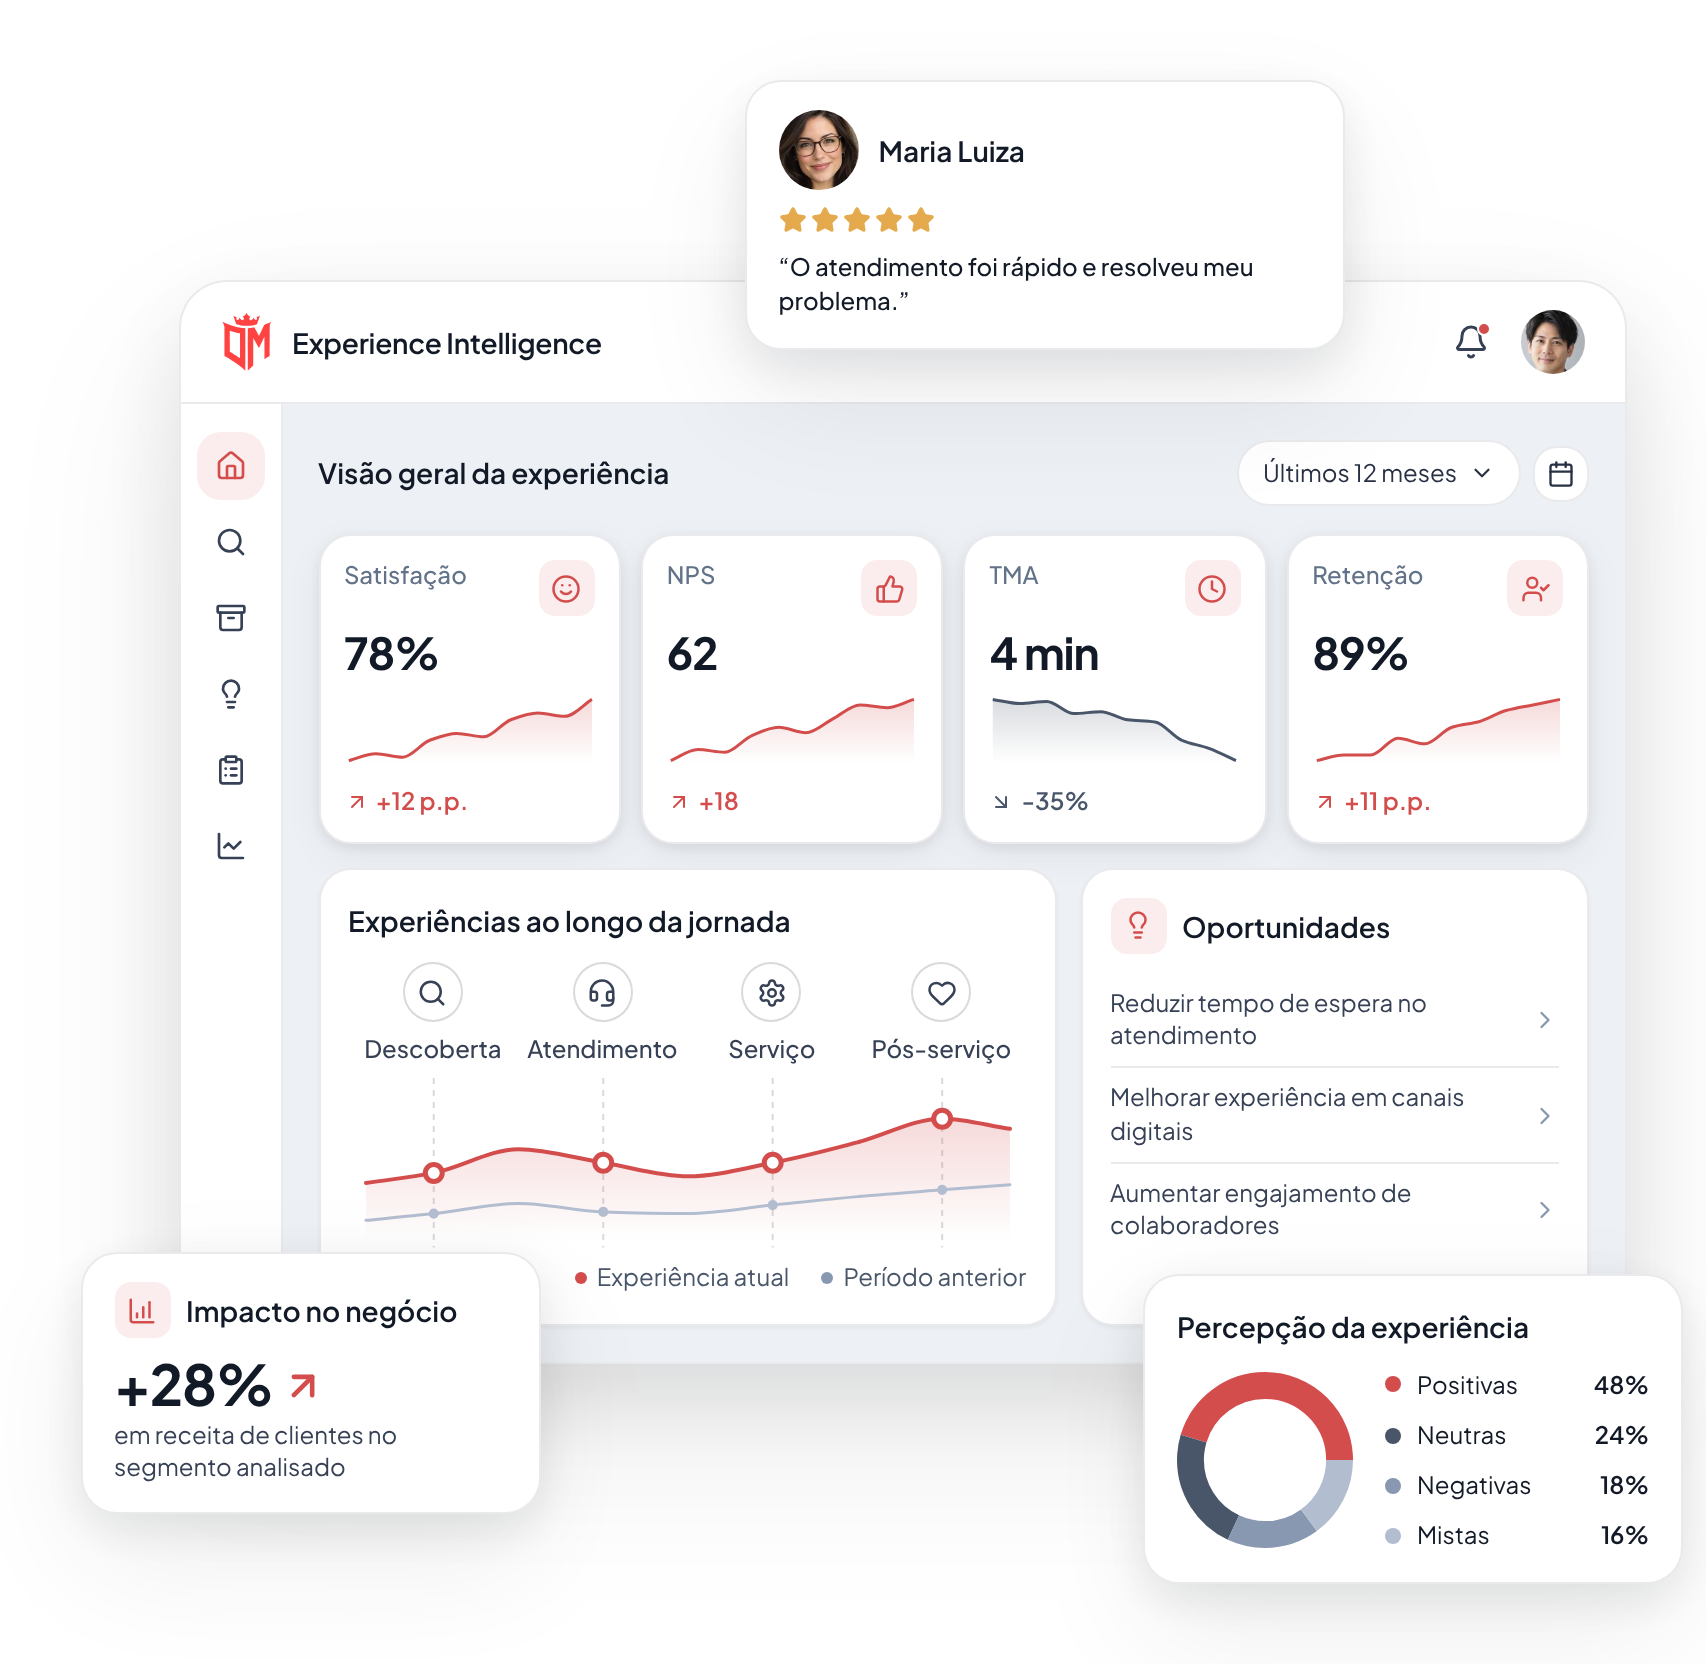
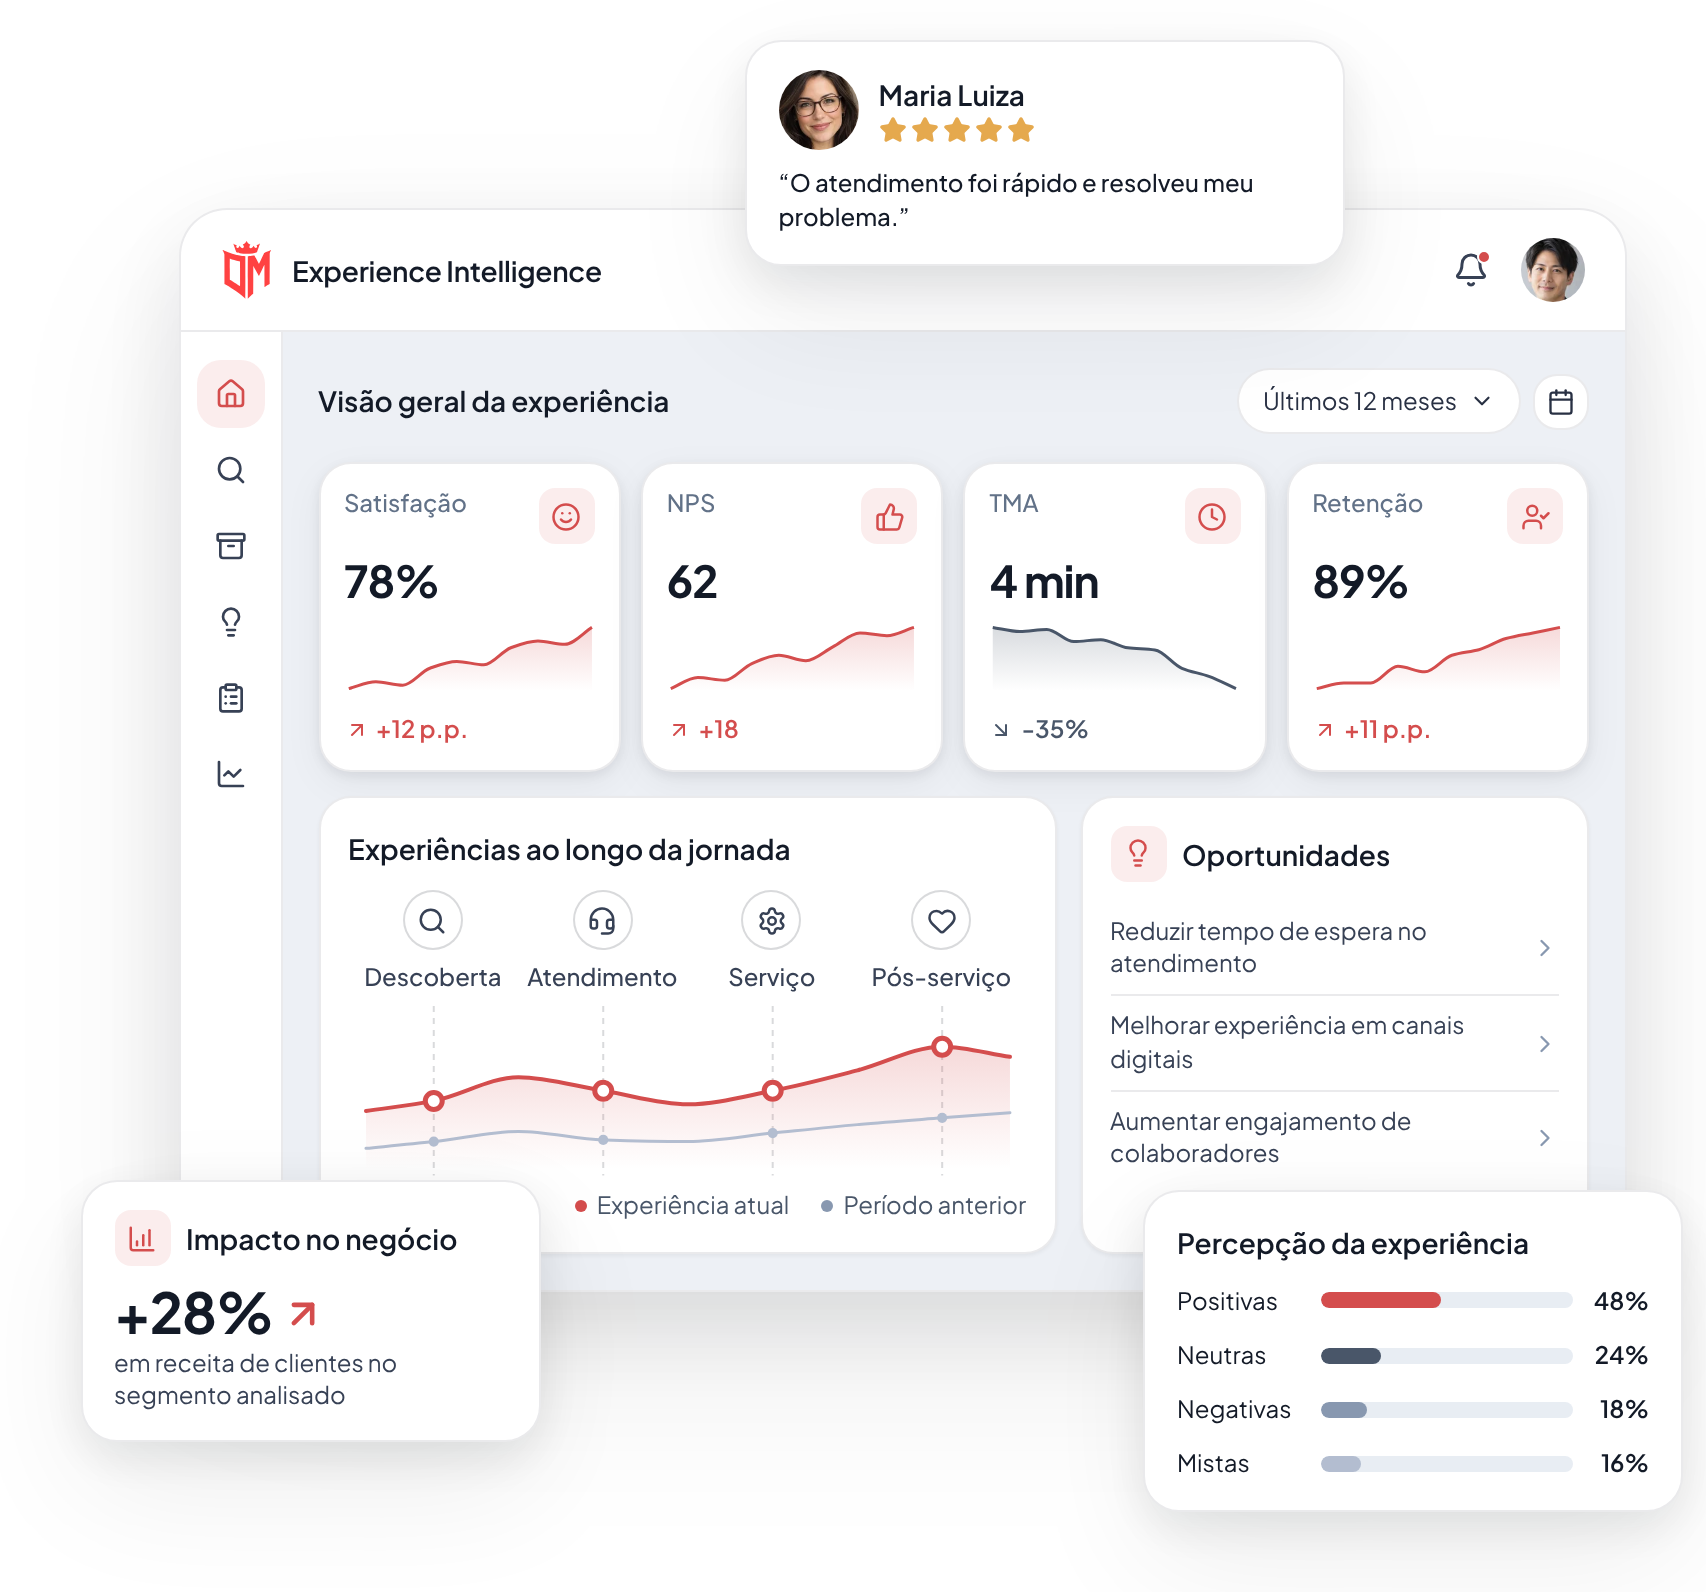
Página do produto: Percepção da experiência em barras horizontais, imagens estáticas atualizadas e correção do estilo do botão de menu
Claude-Session: https://claude.ai/code/session_01XRPixHnGB2MQpUnvzRpAUm

diff --git a/public/experience-intelligence/index.html b/public/experience-intelligence/index.html
@@ -65,7 +65,7 @@
     <div class="hero-texto">
       <p class="selo"><span class="selo-ponto" aria-hidden="true"></span>DM | Experience Intelligence</p>
       <h1 id="hero-titulo">Transforme a experiência das pessoas em <span class="destaque">ativo estratégico</span> para o seu negócio.</h1>
-      <img class="painel-imagem" src="/experience-intelligence/painel-celular.webp" width="760" height="741" loading="lazy" alt="Exemplo demonstrativo do painel: visão geral da experiência com satisfação, NPS, TMA e retenção, experiências ao longo da jornada, oportunidades, avaliação de cliente, impacto no negócio e percepção da experiência.">
+      <img class="painel-imagem" src="/experience-intelligence/painel-celular.webp" width="760" height="709" loading="lazy" alt="Exemplo demonstrativo do painel: visão geral da experiência com satisfação, NPS, TMA e retenção, experiências ao longo da jornada, oportunidades, avaliação de cliente, impacto no negócio e percepção da experiência.">
       <p class="lead">As experiências de clientes, consumidores, pacientes, usuários e colaboradores impactam a percepção de valor, a eficiência operacional e os resultados do negócio.</p>
       <p class="lead">A <strong>DM | Experience Intelligence</strong> transforma essas experiências em inteligência estratégica para identificar oportunidades, orientar decisões e impulsionar a melhoria contínua.</p>
       <div class="hero-acoes">
@@ -178,15 +178,12 @@
 
       <div class="flutuante voz" aria-hidden="true">
         <strong>Percepção da experiência</strong>
-        <div class="voz-corpo">
-          <svg class="rosca" viewBox="0 0 88 88" aria-hidden="true"><g transform="matrix(1 0 0 -1 0 88)"><circle class="c1" cx="44" cy="44" r="37.28" stroke-width="13.44" stroke-dasharray="106.06 128.16" stroke-dashoffset="0.00"/><circle class="c2" cx="44" cy="44" r="37.28" stroke-width="13.44" stroke-dasharray="53.03 181.19" stroke-dashoffset="-106.06"/><circle class="c3" cx="44" cy="44" r="37.28" stroke-width="13.44" stroke-dasharray="39.77 194.45" stroke-dashoffset="-159.09"/><circle class="c4" cx="44" cy="44" r="37.28" stroke-width="13.44" stroke-dasharray="35.35 198.87" stroke-dashoffset="-198.87"/></g></svg>
-          <ul>
-            <li><span class="ponto c1"></span>Positivas<b>48%</b></li>
-            <li><span class="ponto c2"></span>Neutras<b>24%</b></li>
-            <li><span class="ponto c3"></span>Negativas<b>18%</b></li>
-            <li><span class="ponto c4"></span>Mistas<b>16%</b></li>
-          </ul>
-        </div>
+        <ul class="barras">
+          <li><span class="barra-rot">Positivas</span><span class="barra-trilho"><span class="barra c1" style="width:48%"></span></span><b>48%</b></li>
+          <li><span class="barra-rot">Neutras</span><span class="barra-trilho"><span class="barra c2" style="width:24%"></span></span><b>24%</b></li>
+          <li><span class="barra-rot">Negativas</span><span class="barra-trilho"><span class="barra c3" style="width:18%"></span></span><b>18%</b></li>
+          <li><span class="barra-rot">Mistas</span><span class="barra-trilho"><span class="barra c4" style="width:16%"></span></span><b>16%</b></li>
+        </ul>
       </div>
     </figure>
   </section>

diff --git a/public/experience-intelligence/estilo.css b/public/experience-intelligence/estilo.css
@@ -65,7 +65,6 @@ a { color: inherit; }
 @media (max-width: 639px) {
   .topo .btn-contato { display: none; }
 }
-}
 .menu-btn { width: 44px; height: 44px; border: 1px solid var(--border-strong); border-radius: var(--radius); background: var(--card); display: inline-flex; flex-direction: column; align-items: center; justify-content: center; gap: 4px; cursor: pointer; }
 .menu-btn span { width: 18px; height: 2px; background: var(--foreground); border-radius: 2px; }
 
@@ -260,21 +259,17 @@ body.lateral-aberta { overflow: hidden; }
 .citacao-txt { font-size: 0.75rem; font-weight: 500; color: var(--foreground); line-height: 1.45; }
 .estrelas { display: flex; gap: 2px; color: var(--warning); font-size: 14px; }
 .estrelas .ico { fill: currentColor; }
-.voz-corpo { display: flex; align-items: center; gap: 16px; }
-.rosca { width: 88px; height: 88px; flex: none; }
-.rosca circle { fill: none; }
-.rosca .c1 { stroke: var(--chart-1); }
-.rosca .c2 { stroke: var(--chart-2); }
-.rosca .c3 { stroke: var(--chart-3); }
-.rosca .c4 { stroke: var(--chart-4); }
-.voz ul { list-style: none; margin: 0; padding: 0; display: grid; gap: 6px; flex: 1; min-width: 0; }
-.voz li { display: flex; align-items: center; gap: 8px; color: var(--foreground); font-size: 0.75rem; white-space: nowrap; }
-.voz b { margin-left: auto; color: var(--foreground); font-weight: 600; }
-.ponto { width: 8px; height: 8px; border-radius: 50%; flex: none; }
-.ponto.c1 { background: var(--chart-1); }
-.ponto.c2 { background: var(--chart-2); }
-.ponto.c3 { background: var(--chart-3); }
-.ponto.c4 { background: var(--chart-4); }
+/* Percepção da experiência: barras horizontais (padrão Bar Chart do design system: cantos de 4px, cores chart-1 a chart-4) */
+.barras { list-style: none; margin: 0; padding: 0; display: grid; gap: 8px; }
+.barras li { display: grid; grid-template-columns: 64px minmax(0, 1fr) 30px; align-items: center; gap: 8px; font-size: 0.75rem; color: var(--foreground); }
+.barra-rot { white-space: nowrap; }
+.barra-trilho { height: 8px; border-radius: 4px; background: var(--muted); overflow: hidden; }
+.barra { display: block; height: 100%; border-radius: 4px; }
+.barra.c1 { background: var(--chart-1); }
+.barra.c2 { background: var(--chart-2); }
+.barra.c3 { background: var(--chart-3); }
+.barra.c4 { background: var(--chart-4); }
+.barras b { text-align: right; font-weight: 600; }
 .tit-ico { width: 28px; height: 28px; border-radius: 8px; background: var(--primary-muted); color: var(--primary); display: inline-flex; align-items: center; justify-content: center; font-size: 15px; flex: none; }
 .impacto-val { display: flex; align-items: center; gap: 4px; font-weight: 700; font-size: 1.75rem; letter-spacing: -0.025em; line-height: 1.1; color: var(--foreground); }
 .impacto-val .ico { font-size: 22px; stroke-width: 2.5; color: var(--primary); }
